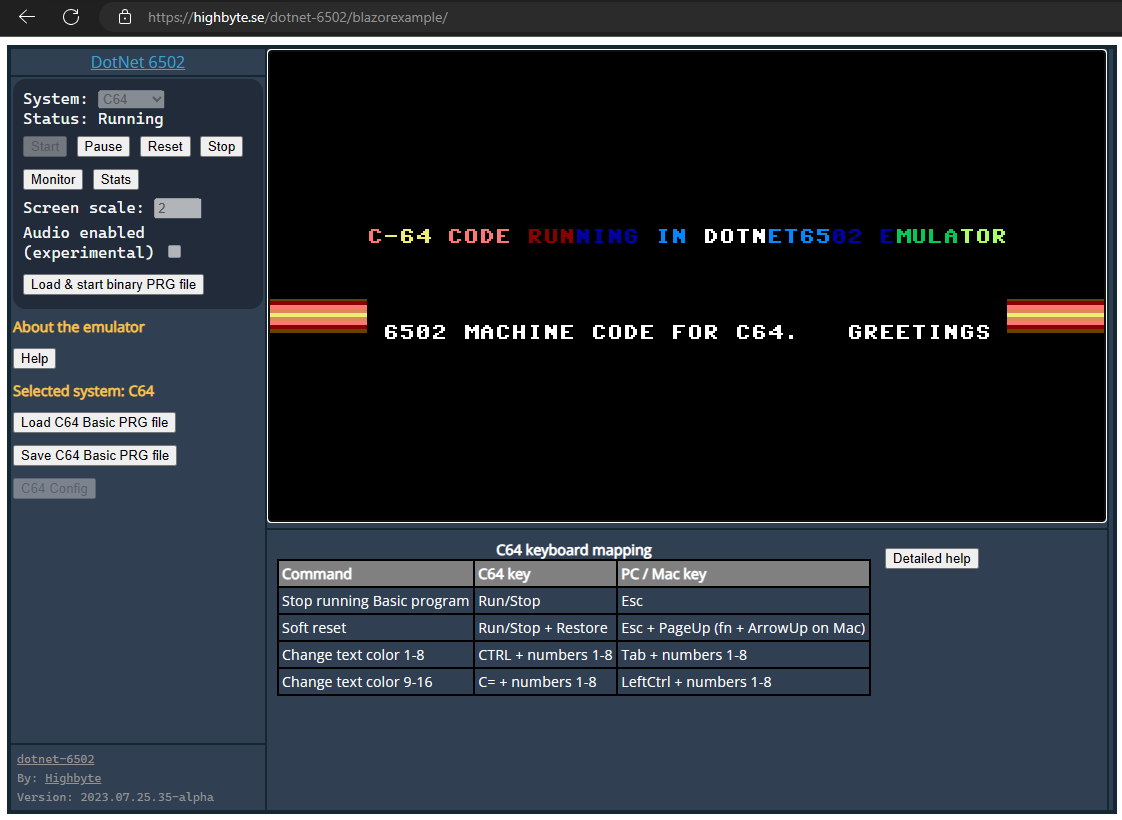
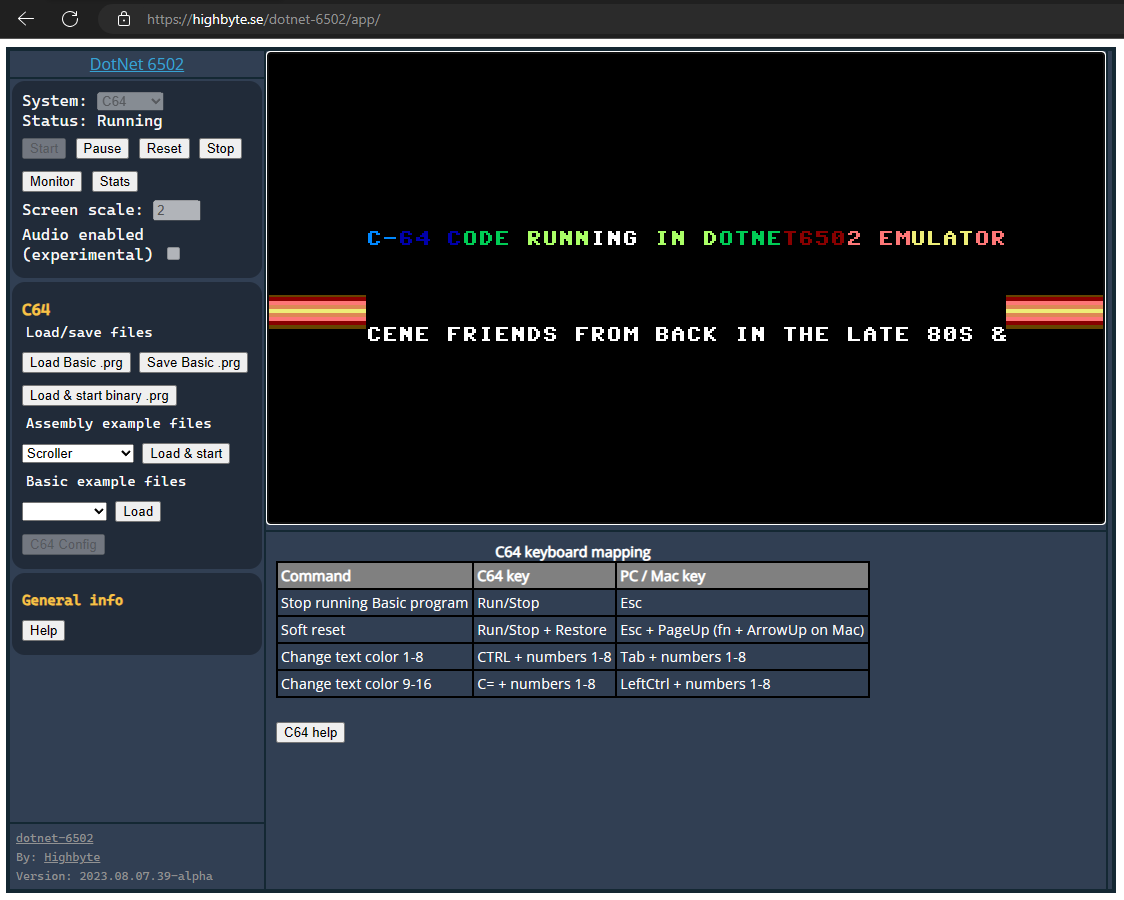
Update doc

Changed region(s): [[0.0, 0.0, 0.9982, 1.0], [0.0, 0.8841, 0.2496, 1.0]]

diff --git a/README.md b/README.md
@@ -9,7 +9,7 @@
 
 ## A [6502 CPU](https://en.wikipedia.org/wiki/MOS_Technology_6502) emulator for .NET
 
-[<img align="top" src="Examples/Screenshots/SkiaWASM_C64.png" width="50%" height="50%" title="SkiaSharp rendering in a Blazor WASM browser host"/>](https://highbyte.se/dotnet-6502/blazorexample)<img align="top" src="Examples/Screenshots/SkiaNative_Monitor.png" width="50%" height="50%" title="SkiaSharp rendering in a native SkiaSharp/Silk.NET host">
+[<img align="top" src="Examples/Screenshots/SkiaWASM_C64.png" width="50%" height="50%" title="SkiaSharp rendering in a Blazor WASM browser host"/>](https://highbyte.se/dotnet-6502/app)<img align="top" src="Examples/Screenshots/SkiaNative_Monitor.png" width="50%" height="50%" title="SkiaSharp rendering in a native SkiaSharp/Silk.NET host">
 
 # Overview / purpose
 

diff --git a/Highbyte.DotNet6502.App/APPS_SKIA_WASM.md b/Highbyte.DotNet6502.App/APPS_SKIA_WASM.md
@@ -5,7 +5,7 @@
 
 <img src="../Examples/Screenshots/SkiaWASM_Monitor.png" width="100%" height="100%" title="SkiaSharp rendering in a Blazor WASM browser host">
 
-A deployed version can be found here [https://highbyte.se/dotnet-6502/blazorexample](https://highbyte.se/dotnet-6502/blazorexample)
+A deployed version can be found here [https://highbyte.se/dotnet-6502/app](https://highbyte.se/dotnet-6502/app)
 
 # Features
 A web app written in Blazor WASM (Web Assembly), using [```SkiaSharp.Views.Blazor```](https://www.nuget.org/packages/SkiaSharp.Views.Blazor) library to provide a Canvas for drawing on with main [```SkiaSharp```](https://www.nuget.org/packages/SkiaSharp) library.
